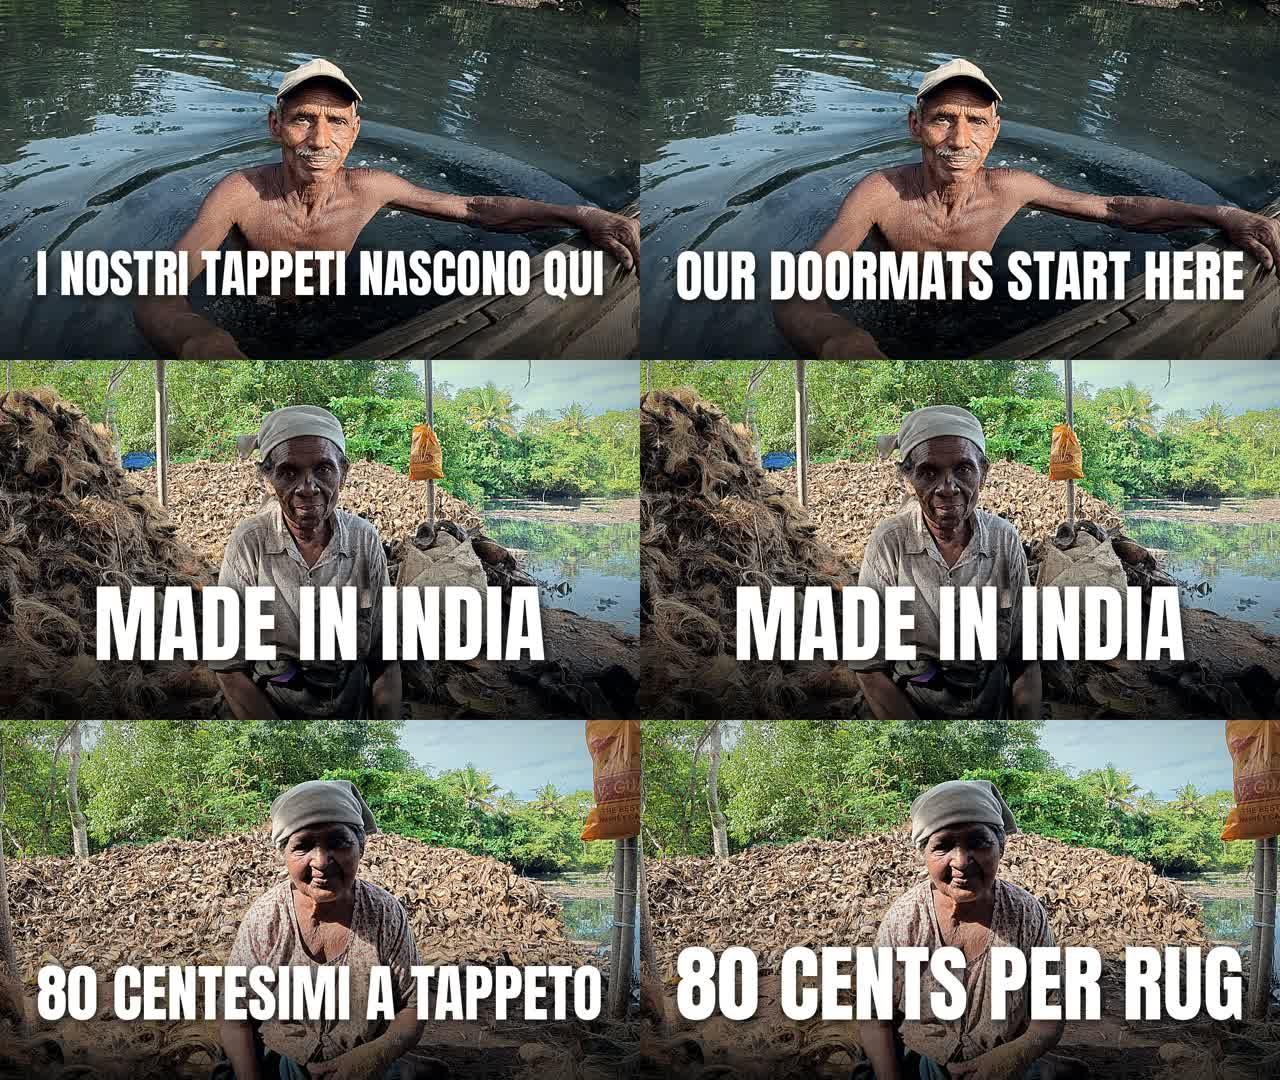
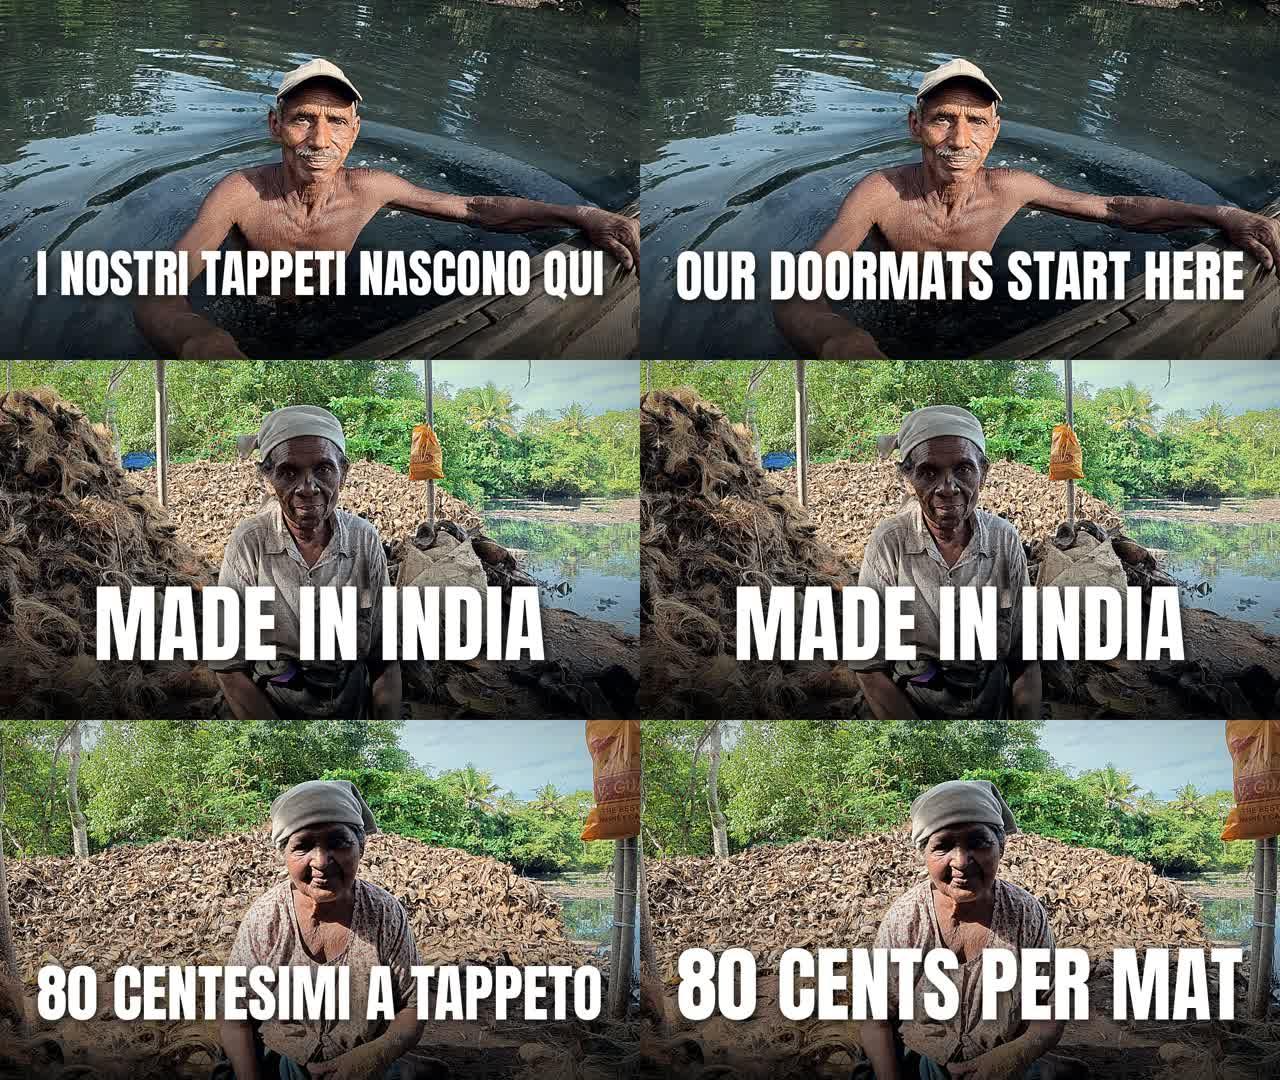
Copy: coir, miniatura en 80 CENTS PER MAT (Manuel 11/11)
Claude-Session: https://claude.ai/code/session_01HtfbgxkwhMbMCwGetFjun7

Changed region(s): [[0.5312, 0.8556, 0.9688, 0.9472]]

diff --git a/copioni/miniature_v3/miniature_v3.py b/copioni/miniature_v3/miniature_v3.py
@@ -208,7 +208,7 @@ J = {
  ('coir', 'C9_madeinindia'): dict(src=g(C, '0063'), t=9.2, cx=.535, cy=.52, zoom=1.45, layout='riga',
      it='MADE IN INDIA', en='MADE IN INDIA'),
  ('coir', 'C10_80centesimi'): dict(src=g(C, '0063'), t=15.5, cx=.52, cy=.45, zoom=1.35, layout='riga',
-     it='80 CENTESIMI A TAPPETO', en='80 CENTS PER RUG'),
+     it='80 CENTESIMI A TAPPETO', en='80 CENTS PER MAT'),
 }
 if __name__ == '__main__':
     import sys

diff --git a/copioni/coir_pacchetto.md b/copioni/coir_pacchetto.md
@@ -10,7 +10,7 @@ Titolo IT: CHI C'È DIETRO I NOSTRI TAPPETI: le donne del coir in Kerala, India 
 (11/11, Manuel + Insights; prima: MADE IN INDIA: chi fa i nostri tappeti 🇮🇳 le donne del coir in Kerala)
 Titolo EN: WHO IS BEHIND OUR DOORMATS: the coir women of Kerala, India 🇮🇳
 Miniature (Test e confronto, v4, Manuel 11/11): 1 C6_laguna "I NOSTRI TAPPETI NASCONO QUI" (principale), 2 C9_madeinindia
-"MADE IN INDIA", 3 C10_80centesimi "80 CENTESIMI A TAPPETO" (_it e _en; en: OUR DOORMATS START HERE, MADE IN INDIA, 80 CENTS PER RUG).
+"MADE IN INDIA", 3 C10_80centesimi "80 CENTESIMI A TAPPETO" (_it e _en; en: OUR DOORMATS START HERE, MADE IN INDIA, 80 CENTS PER MAT).
 Espressioni serie, persona centrale in camera, scritta su una riga, TUTTA BIANCA (Manuel 11/11), centrata poco sopra il fondo.
 Repo copioni/coir_miniature/v3/, generatore copioni/miniature_v3/miniature_v3.py (layout 'riga'). Drive: da sostituire a C1-C3 dopo l'ok di Manuel.
 Da fare quando Montaggio dà i tempi della nuova intro (VO con 80 centesimi e 4 euro al giorno): sottotitoli it/en e capitoli.
